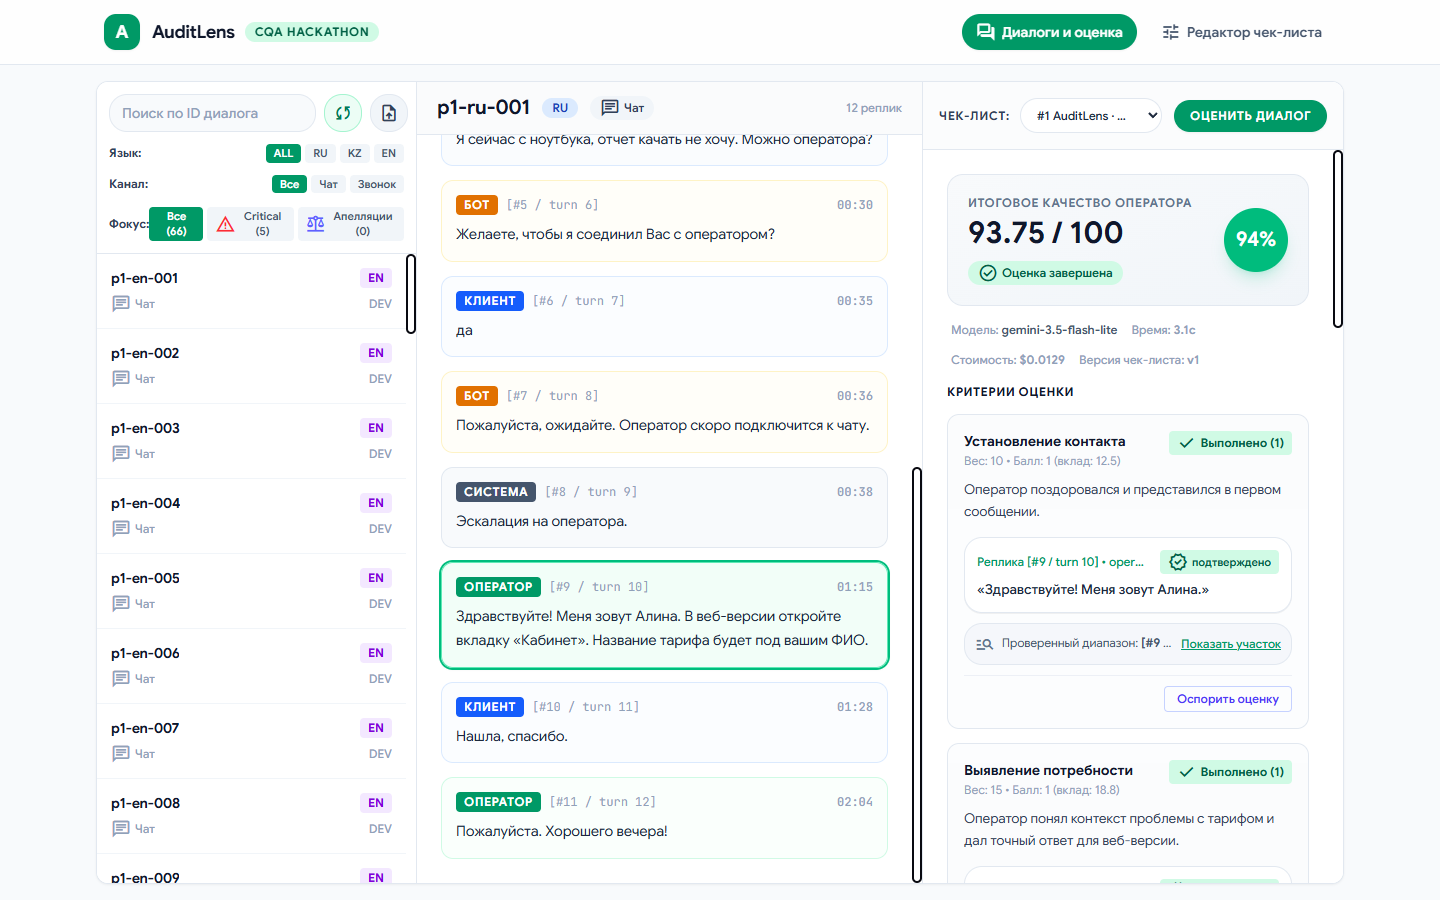
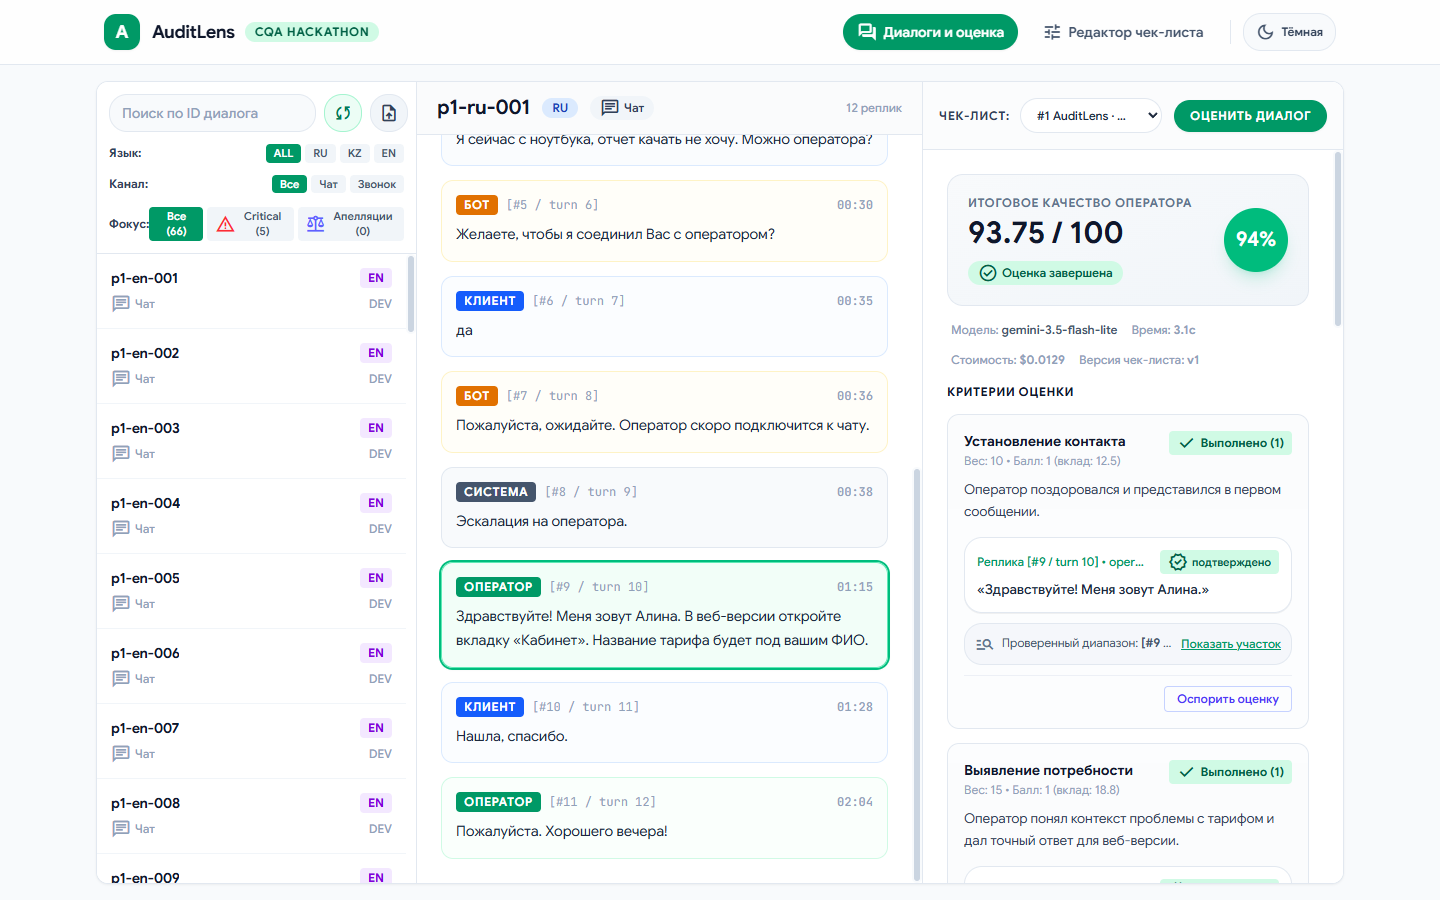
feat: initialize AuditLens application with FastAPI backend and TypeScript frontend

diff --git a/frontend/src/styles/tokens.css b/frontend/src/styles/tokens.css
@@ -2,41 +2,57 @@
   --font-sans: 'Google Sans', 'Plus Jakarta Sans', -apple-system, BlinkMacSystemFont, 'Segoe UI', Roboto, Helvetica, Arial, sans-serif;
   --font-mono: 'JetBrains Mono', ui-monospace, 'Cascadia Code', monospace;
 
-  --bg: hsl(234 30% 5%);
-  --bg-elevated: hsl(234 26% 9%);
-  --surface: hsl(234 30% 100% / 0.04);
-  --surface-hover: hsl(234 30% 100% / 0.07);
-  --surface-strong: hsl(234 22% 13%);
-  --border: hsl(234 30% 100% / 0.08);
-  --border-strong: hsl(234 30% 100% / 0.16);
+  --bg: #f8fafc;
+  --bg-elevated: #ffffff;
+  --surface: rgba(15, 23, 42, 0.03);
+  --surface-hover: rgba(15, 23, 42, 0.06);
+  --surface-strong: #f1f5f9;
+  --border: #e2e8f0;
+  --border-strong: #cbd5e1;
 
-  --text: hsl(230 30% 96%);
-  --text-muted: hsl(230 14% 68%);
-  --text-faint: hsl(230 10% 48%);
+  --text: #0f172a;
+  --text-muted: #475569;
+  --text-faint: #94a3b8;
 
-  --accent: hsl(258 90% 66%);
-  --accent-2: hsl(188 86% 53%);
-  --accent-soft: hsl(258 90% 66% / 0.16);
+  --accent: hsl(160 84% 39%);
+  --accent-2: hsl(188 86% 43%);
+  --accent-soft: hsl(160 84% 39% / 0.14);
   --gradient: linear-gradient(135deg, var(--accent) 0%, var(--accent-2) 100%);
 
-  --success: hsl(152 68% 50%);
-  --warning: hsl(38 95% 60%);
-  --danger: hsl(352 85% 63%);
-  --info: hsl(205 90% 62%);
+  --success: hsl(152 68% 40%);
+  --warning: hsl(38 95% 50%);
+  --danger: hsl(352 85% 55%);
+  --info: hsl(205 90% 50%);
 
   --radius-sm: 8px;
   --radius: 12px;
   --radius-lg: 18px;
   --radius-full: 999px;
-  --shadow: 0 10px 30px -12px hsl(240 60% 2% / 0.7);
-  --shadow-glow: 0 8px 32px -8px hsl(258 90% 60% / 0.55);
-  --ring: 0 0 0 3px hsl(258 90% 66% / 0.35);
+  --shadow: 0 10px 30px -12px rgba(15, 23, 42, 0.12);
+  --shadow-glow: 0 8px 32px -8px hsl(160 84% 39% / 0.35);
+  --ring: 0 0 0 3px hsl(160 84% 39% / 0.28);
 
   --sidebar-w: 248px;
   --content-max: 1120px;
   --ease: cubic-bezier(0.2, 0.8, 0.2, 1);
   --t-fast: 140ms var(--ease);
   --t: 240ms var(--ease);
+
+  color-scheme: light;
+}
+
+html.dark {
+  --bg: #020617;
+  --bg-elevated: #0f172a;
+  --surface: rgba(255, 255, 255, 0.04);
+  --surface-hover: rgba(255, 255, 255, 0.07);
+  --surface-strong: #1e293b;
+  --border: #1e293b;
+  --border-strong: #334155;
+
+  --text: #f1f5f9;
+  --text-muted: #94a3b8;
+  --text-faint: #64748b;
 
   color-scheme: dark;
 }

diff --git a/frontend/src/components/Header.ts b/frontend/src/components/Header.ts
@@ -2,10 +2,13 @@ import { store, type AppState } from '@/state/store'
 
 export function renderHeader(container: HTMLElement) {
   let prevTab: string | null = null
+  let prevTheme: string | null = null
 
   store.subscribe((state: AppState) => {
-    if (state.activeTab === prevTab) return
+    if (state.activeTab === prevTab && state.theme === prevTheme) return
     prevTab = state.activeTab
+    prevTheme = state.theme
+    const isDark = state.theme === 'dark'
 
     container.innerHTML = `
       <header class="border-b border-slate-200 dark:border-slate-800 bg-white/80 dark:bg-slate-900/80 backdrop-blur-md sticky top-0 z-30 shrink-0">
@@ -47,6 +50,21 @@ export function renderHeader(container: HTMLElement) {
               <span class="material-symbols-outlined text-[18px]">tune</span>
               <span>Редактор чек-листа</span>
             </button>
+
+            <div class="h-6 w-px bg-slate-200 dark:bg-slate-800 mx-0.5"></div>
+
+            <button
+              id="theme-toggle-btn"
+              type="button"
+              title="${isDark ? 'Включить светлую тему' : 'Включить тёмную тему'}"
+              aria-label="${isDark ? 'Включить светлую тему' : 'Включить тёмную тему'}"
+              class="inline-flex items-center gap-1.5 px-3 py-2 rounded-lg text-xs font-semibold border border-slate-200 dark:border-slate-700 bg-slate-50 dark:bg-slate-800 text-slate-700 dark:text-slate-200 hover:bg-slate-100 dark:hover:bg-slate-700 transition-all cursor-pointer"
+            >
+              <span class="material-symbols-outlined text-[18px] ${isDark ? 'text-amber-400' : 'text-slate-600'}">${
+                isDark ? 'light_mode' : 'dark_mode'
+              }</span>
+              <span class="hidden sm:inline">${isDark ? 'Светлая' : 'Тёмная'}</span>
+            </button>
           </div>
         </div>
       </header>
@@ -58,6 +76,10 @@ export function renderHeader(container: HTMLElement) {
 
     container.querySelector('#tab-btn-checklists')?.addEventListener('click', () => {
       store.setState({ activeTab: 'checklists' })
+    })
+
+    container.querySelector('#theme-toggle-btn')?.addEventListener('click', () => {
+      store.toggleTheme()
     })
   })
 }

diff --git a/frontend/src/state/store.ts b/frontend/src/state/store.ts
@@ -9,6 +9,7 @@ import type {
 
 export interface AppState {
   activeTab: 'workspace' | 'checklists'
+  theme: 'light' | 'dark'
   conversations: ConversationSummary[]
   selectedConversationId: string | null
   selectedConversation: ConversationRead | null
@@ -36,8 +37,19 @@ export interface AppState {
   toast: { type: 'success' | 'error'; message: string } | null
 }
 
+function applyTheme(theme: 'light' | 'dark') {
+  if (typeof document === 'undefined') return
+  const root = document.documentElement
+  root.classList.toggle('dark', theme === 'dark')
+  root.classList.toggle('light', theme === 'light')
+  root.style.colorScheme = theme
+}
+
+applyTheme('light')
+
 const initialState: AppState = {
   activeTab: 'workspace',
+  theme: 'light',
   conversations: [],
   selectedConversationId: null,
   selectedConversation: null,
@@ -77,7 +89,14 @@ class Store {
 
   setState(partial: Partial<AppState>) {
     this.state = { ...this.state, ...partial }
+    if (partial.theme) {
+      applyTheme(partial.theme)
+    }
     this.notify()
+  }
+
+  toggleTheme() {
+    this.setState({ theme: this.state.theme === 'dark' ? 'light' : 'dark' })
   }
 
   subscribe(listener: Listener): () => void {

diff --git a/frontend/index.html b/frontend/index.html
@@ -1,10 +1,10 @@
 <!doctype html>
-<html lang="ru">
+<html lang="ru" class="light" style="color-scheme: light">
   <head>
     <meta charset="UTF-8" />
     <meta name="viewport" content="width=device-width, initial-scale=1.0" />
     <meta name="description" content="AuditLens — AI-оценка качества работы операторов поддержки с доказательствами и апелляциями." />
-    <meta name="theme-color" content="#0a0b14" />
+    <meta name="theme-color" content="#f8fafc" />
     <link rel="icon" href="/favicon.svg" type="image/svg+xml" />
     <link rel="preconnect" href="https://fonts.googleapis.com" />
     <link rel="preconnect" href="https://fonts.gstatic.com" crossorigin />

diff --git a/frontend/src/styles/global.css b/frontend/src/styles/global.css
@@ -1,6 +1,8 @@
 @import "tailwindcss";
 @import './tokens.css';
 
+@custom-variant dark (&:where(.dark, .dark *));
+
 @theme {
   --font-sans: 'Google Sans', 'Plus Jakarta Sans', -apple-system, BlinkMacSystemFont, 'Segoe UI', Roboto, Helvetica, Arial, sans-serif;
   --font-mono: 'JetBrains Mono', ui-monospace, 'Cascadia Code', monospace;

diff --git a/backend/app/main.py b/backend/app/main.py
@@ -62,7 +62,7 @@ def _mount_frontend(app: FastAPI, dist: Path, api_prefix: str) -> None:
         file = (dist / path).resolve()
         if path and file.is_file() and file.is_relative_to(dist):
             return FileResponse(file)
-        return FileResponse(index)
+        return FileResponse(index, headers={"Cache-Control": "no-cache"})
 
 
 app = create_app()

diff --git a/README.md b/README.md
@@ -95,7 +95,9 @@ npm run dev       # backend :8000 + frontend :5173
 | 1 мин | Изменение критерия и применение чек-листа | «Редактор чек-листа» → сохранить → оценить диалог |
 
 <details>
-<summary>📸 Скриншоты</summary>
+<summary>📸 Скриншоты (тёмная тема, редактор чек-листа, апелляция)</summary>
+
+![Тёмная тема](docs/screenshots/04-dark-mode.png)
 
 ![Редактор чек-листа](docs/screenshots/02-checklist-editor.png)
 
